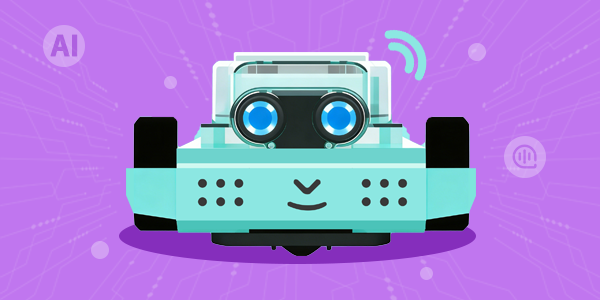
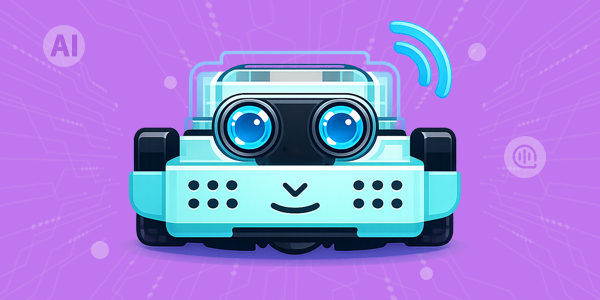
修改python上传文件时更多菜单不会消失的问题

diff --git a/src/components/python-editor/FileTree.jsx b/src/components/python-editor/FileTree.jsx
@@ -82,7 +82,7 @@ const FileTree = ({
                                                 <>
                                                     <div onClick={() => handleNewFile(fullPath)}> <FormattedMessage defaultMessage="New File" id="python.editor.Tree.createFile" /> </div>
                                                     <div onClick={() => handleNewFolder(fullPath)}><FormattedMessage defaultMessage="New Folder" id="python.editor.Tree.createFolder" /></div>
-                                                    <div onClick={() => handleUpload(fullPath)}><FormattedMessage defaultMessage="Upload" id="python.editor.Tree.upload" /></div>
+                                                    <div onClick={(e) => {e.stopPropagation();setOpenMenuPath(null);setTimeout(() => handleUpload(fullPath), 0);}}><FormattedMessage defaultMessage="Upload" id="python.editor.Tree.upload" /></div>
                                                     <div onClick={() => handleRename(fullPath, "folder")}><FormattedMessage defaultMessage="Rename" id="python.editor.Tree.rename" /></div>
                                                     <div onClick={() => handleDelete(fullPath, "folder")}><FormattedMessage defaultMessage="Delete" id="python.editor.Tree.delete" /></div>
                                                 </>
